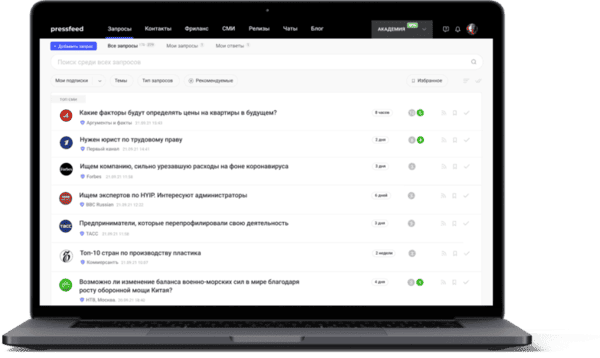
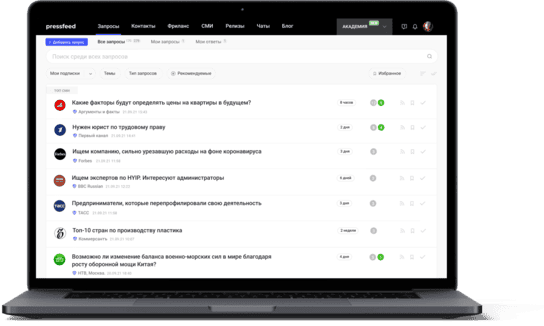
fix img

diff --git a/index.html b/index.html
@@ -105,8 +105,12 @@
                     <!-- <img class="promo__image" src="img/promo.png" srcset="img/promo@2x.png 2x" width="784" height="468" alt="Куратор по работе с сервисом Pressfeed"> -->
 
                     <picture>
+                        <source srcset="img/promo-mobile@2x.png" media="(max-width: 598px)" type="image/png">
                         <source srcset="img/promo-mobile.png" media="(max-width: 598px)" type="image/png">
+
+                        <source srcset="img/promo@2x.png" media="(min-width: 599px)" type="image/png">
                         <source srcset="img/promo.png" media="(min-width: 599px)" type="image/png">
+
                         <img class="promo__image" src="img/promo.png" width="784" height="468" alt="Куратор по работе с сервисом Pressfeed">
                     </picture>
 
@@ -129,8 +133,12 @@
             <!-- <img class="how__image" src="img/how.png" srcset="img/how@2x.png 2x" width="1234" height="512" alt="Как это работает?"> -->
 
             <picture>
+                <source srcset="img/how-mobile@2x.png" media="(max-width: 598px)" type="image/png">
                 <source srcset="img/how-mobile.png" media="(max-width: 598px)" type="image/png">
+
+                <source srcset="img/how@2x.png" media="(min-width: 599px)" type="image/png">
                 <source srcset="img/how.png" media="(min-width: 599px)" type="image/png">
+
                 <img class="how__image" src="img/how.png" width="1234" height="512" alt="Как это работает?">
             </picture>
 
